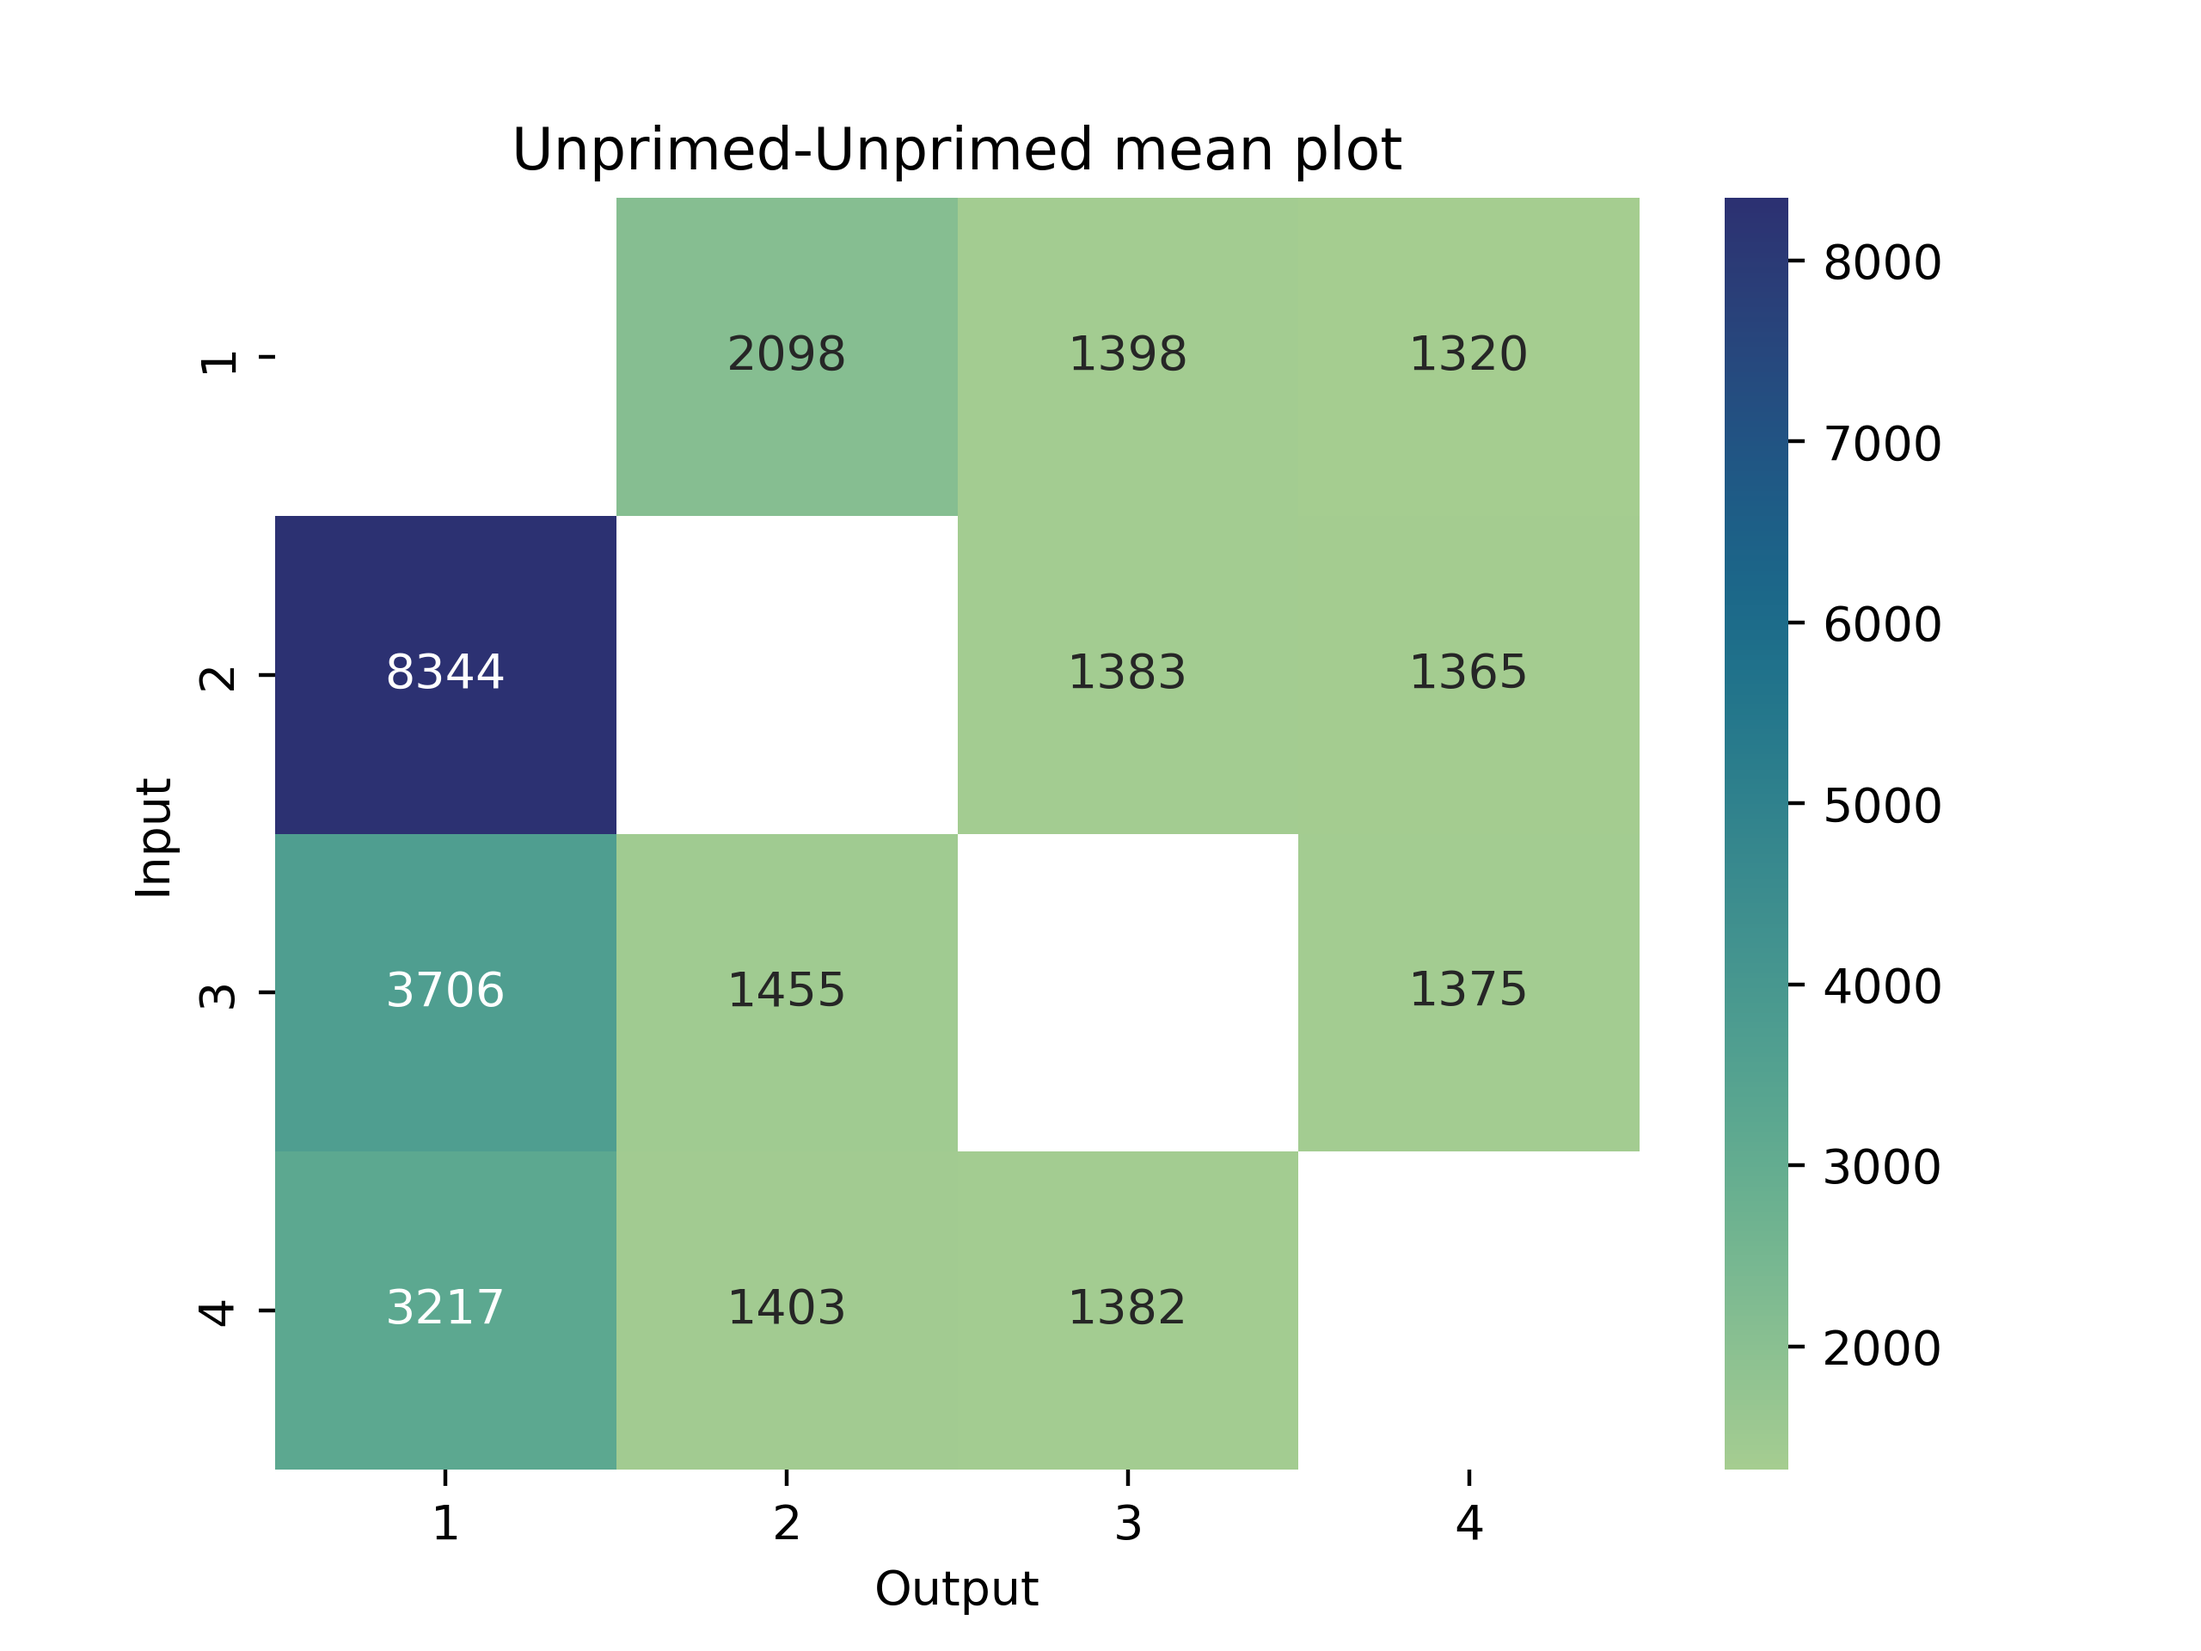
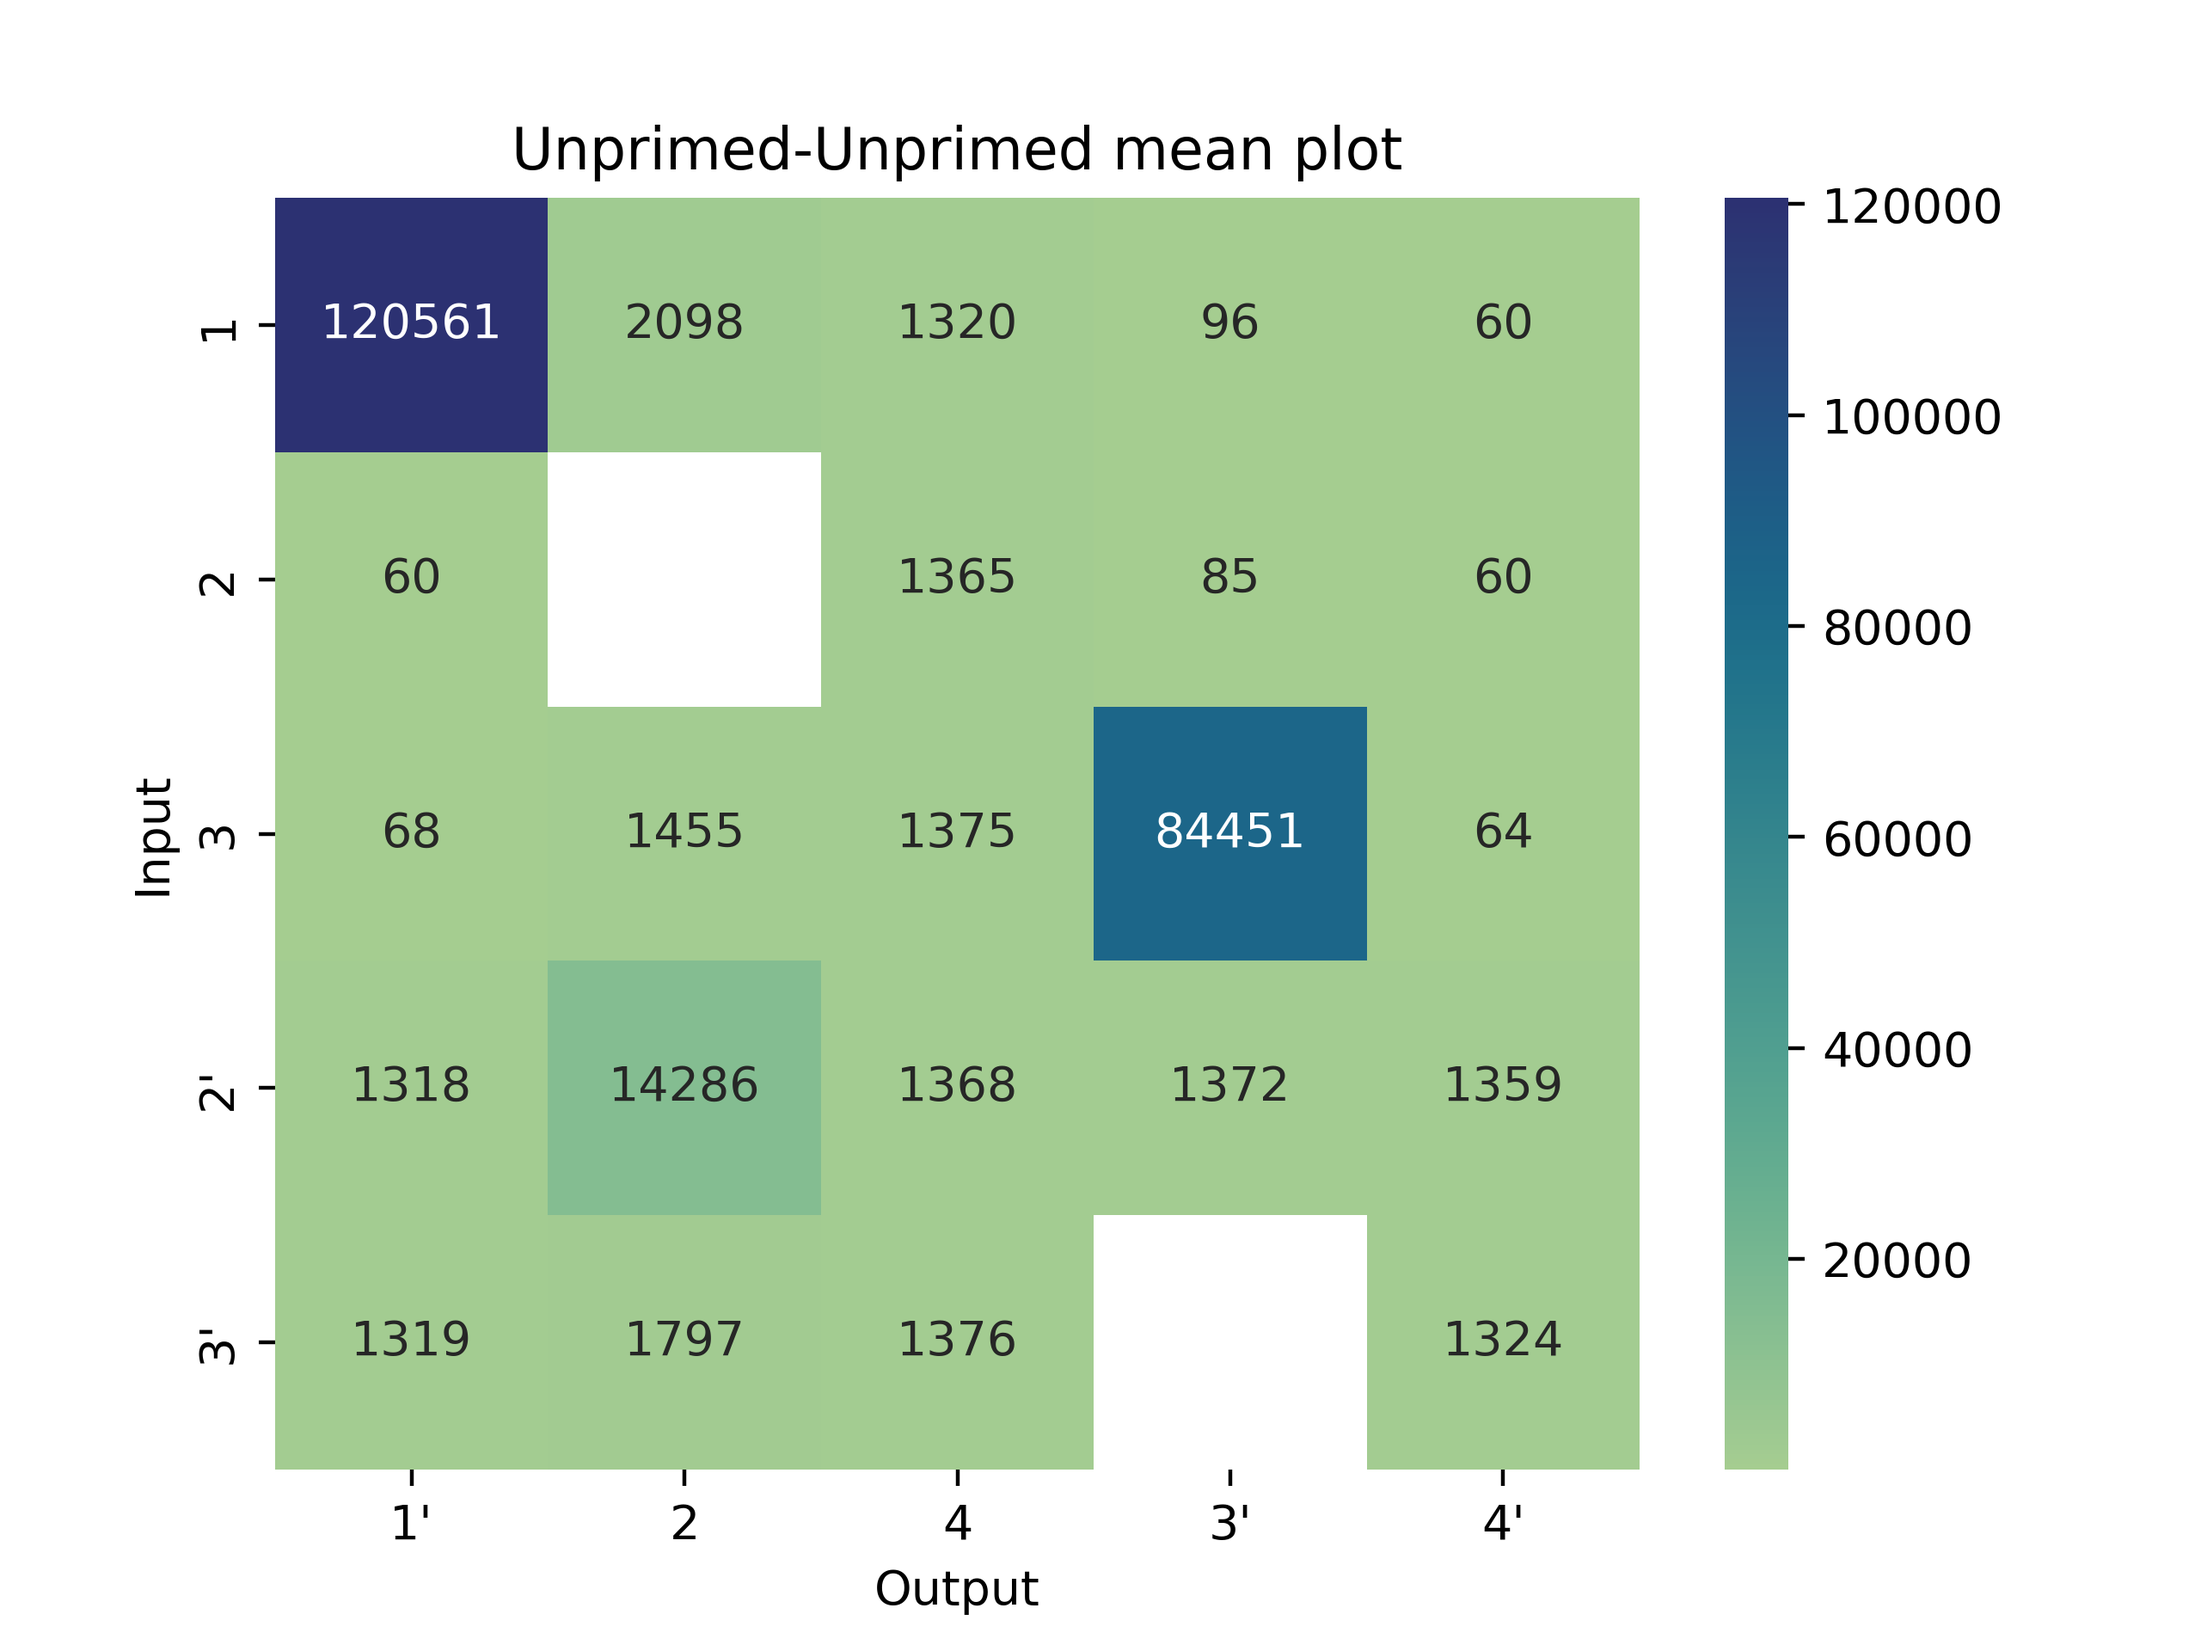
Pivot_table functionality added, can have any set of rows/columns as needed.

diff --git a/test_pivot_table.py b/test_pivot_table.py
@@ -1,0 +1,39 @@
+import numpy as np
+import pandas as pd
+import seaborn as sns
+import matplotlib.pyplot as plt
+import os
+
+lst = []
+
+outer_folder_to_view = r"C:\Users\Owner\OneDrive\Desktop\Kwiat Lab\MCF Project\Quantum signal characterization\Data"
+for folder in os.listdir(outer_folder_to_view):
+    folder_to_view = f'{outer_folder_to_view}/{folder}'
+    for file in os.listdir(folder_to_view):
+        full_path = f'{folder_to_view}/{file}'
+        df = pd.read_csv(full_path, sep='\t', header=None)
+        df = df[df.iloc[:, 1] != 0].iloc[:, 1:2]
+        s = pd.Series(df[1].values)
+        mean = s.mean()
+        standard_deviation = s.std()
+        start, end = file.split("-")
+        list = [start, end, mean, standard_deviation]
+        lst.append(list)
+
+column_names=["from", "to", "mean", "standard_deviation"]
+df = pd.DataFrame(lst, columns=column_names)
+all_data_mean = df.pivot_table(index="from", columns="to", values="mean")
+data_needed_mean = all_data_mean.loc[["1","2","3", "2'", "3'"], ["1'", "2", "4", "3'", "4'"]]
+all_data_std = df.pivot_table(index="from", columns="to", values="standard_deviation")
+data_needed_std = all_data_std.loc[["1","2","3", "2'", "3'"], ["1'", "2", "4", "3'", "4'"]]
+
+svm_1 = sns.heatmap(data_needed_mean, annot=True, fmt=".0f", cmap="crest")
+svm_1.set(xlabel="Output", ylabel="Input")
+svm_1.set_title(folder + " mean plot")
+plt.savefig(folder + '-mean.png', dpi=400)
+plt.clf()
+svm_2 = sns.heatmap(data_needed_std, annot=True, fmt=".0f", cmap="crest")
+svm_2.set(xlabel="Output", ylabel="Input")
+svm_2.set_title(folder + " std plot")
+plt.savefig(folder + '-std.png', dpi=400)
+plt.clf()
